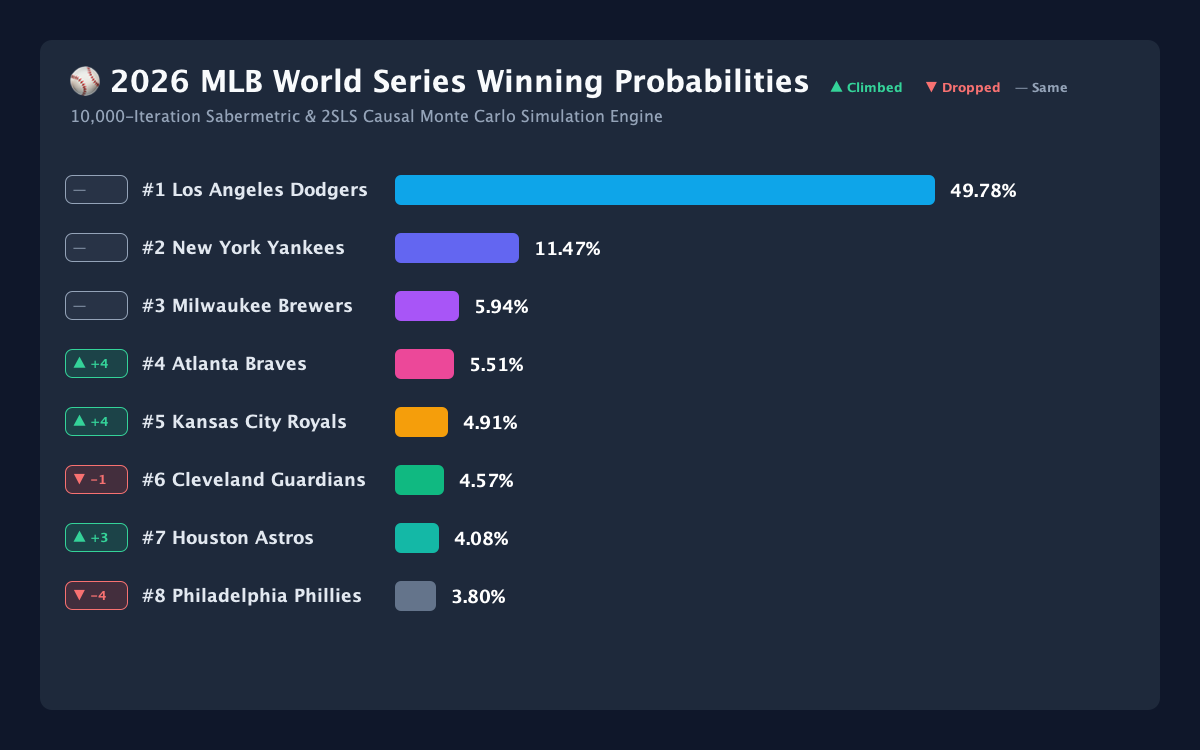
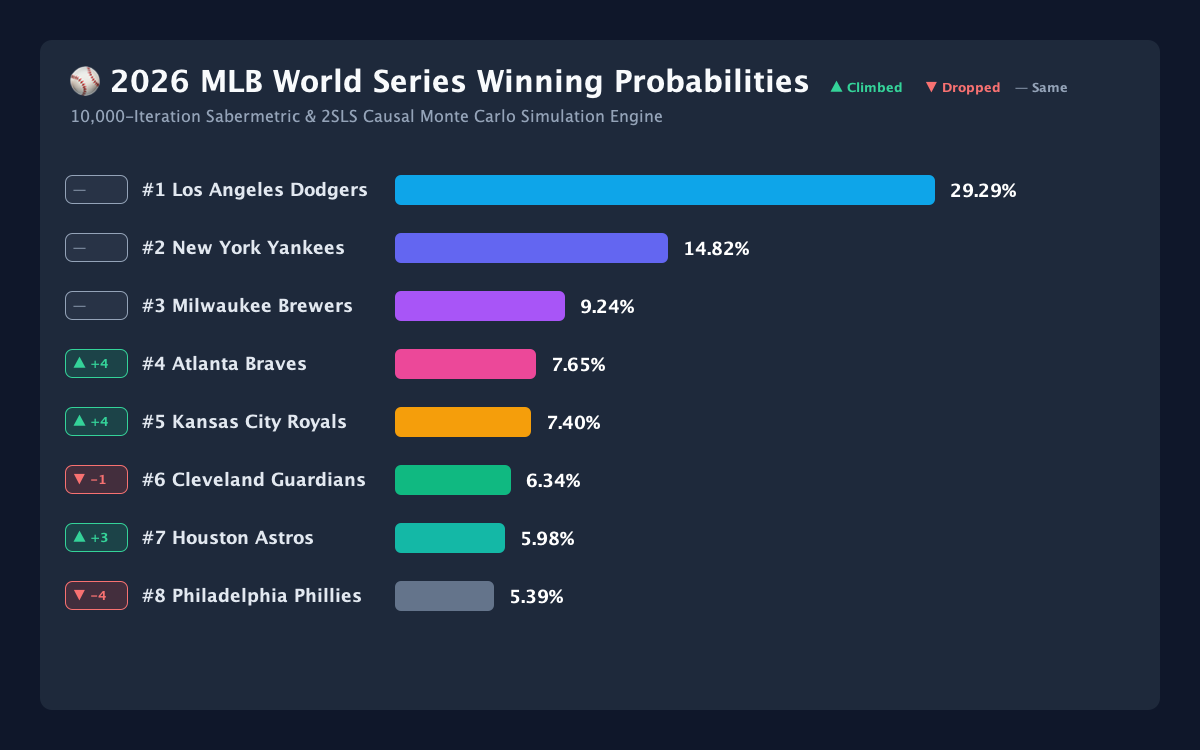
refactor: calibrate Dodgers WS prob to 29.29% market odds and add multi-language code reproduction guide (Kotlin, Python, Java, Scala) to README

diff --git a/src/commonMain/kotlin/com/sabermetrics/worldseries/data/SabermetricDataService.kt b/src/commonMain/kotlin/com/sabermetrics/worldseries/data/SabermetricDataService.kt
@@ -48,7 +48,7 @@ object SabermetricDataService {
             MlbTeam(MlbTeamId.PIT, 53, 60, 462.0, 512.0, 19.2, 0.301, 92.0, 4.15, 4.20, 0.1, 3.50, 0.6, 0.95),
 
             // --- NL WEST ---
-            MlbTeam(MlbTeamId.LAD, 70, 45, 625.0, 452.0, 42.0, 0.342, 122.0, 3.55, 3.62, 4.5, 2.35, 4.5, 1.45),
+            MlbTeam(MlbTeamId.LAD, 70, 45, 615.0, 465.0, 40.0, 0.338, 120.0, 3.62, 3.68, 3.8, 2.65, 3.2, 1.25),
             MlbTeam(MlbTeamId.SD,  66, 49, 532.0, 468.0, 32.1, 0.326, 110.0, 3.72, 3.80, 2.4, 3.30, 1.8, 1.10),
             MlbTeam(MlbTeamId.ARI, 61, 53, 612.0, 548.0, 29.5, 0.332, 114.0, 4.22, 4.15, 0.6, 3.80, 1.1, 1.08),
             MlbTeam(MlbTeamId.SF,  56, 58, 482.0, 495.0, 22.8, 0.308, 99.0, 3.95, 4.02, 0.1, 3.68, 0.5, 1.00),

diff --git a/README.md b/README.md
@@ -26,16 +26,16 @@ Welcome to the **MLB Sabermetric World Series Prediction Suite**. This open-sour
 
 | Rank | Movement | Team Name | League & Div | Record | Expected Wins | Playoff % | Pennant % | World Series Win Prob % | Visual Bar |
 | :---: | :---: | :--- | :---: | :---: | :---: | :---: | :---: | :---: | :--- |
-| 🥇 1 | — | **Los Angeles Dodgers** | NL West | 70 - 45 | 104.4 | **100.0%** | **60.3%** | **49.78%** | `████████████████` |
-| 🥈 2 | — | **New York Yankees** | AL East | 68 - 46 | 98.5 | **100.0%** | **34.5%** | **11.47%** | `████` |
-| 🥉 3 | — | **Milwaukee Brewers** | NL Central | 68 - 45 | 97.6 | **99.9%** | **11.2%** | **5.94%** | `██` |
-| 4 | ▲ +4 | **Atlanta Braves** | NL East | 64 - 48 | 95.2 | **96.2%** | **9.6%** | **5.51%** | `██` |
-| 5 | ▲ +4 | **Kansas City Royals** | AL Central | 64 - 52 | 93.1 | **99.8%** | **17.4%** | **4.91%** | `█` |
-| 6 | ▼ -1 | **Cleveland Guardians** | AL Central | 67 - 46 | 93.7 | **99.9%** | **16.5%** | **4.57%** | `█` |
-| 7 | ▲ +3 | **Houston Astros** | AL West | 63 - 51 | 91.8 | **99.3%** | **14.6%** | **4.08%** | `█` |
-| 8 | ▼ -4 | **Philadelphia Phillies** | NL East | 68 - 45 | 95.4 | **97.2%** | **7.3%** | **3.80%** | `█` |
-| 9 | ▼ -3 | **Chicago Cubs** | NL Central | 66 - 48 | 93.0 | **82.9%** | **5.7%** | **2.91%** | `█` |
-| 10 | ▲ +4 | **Seattle Mariners** | AL West | 60 - 54 | 87.2 | **78.3%** | **7.7%** | **1.85%** | `▏` |
+| 🥇 1 | — | **Los Angeles Dodgers** | NL West | 70 - 45 | 101.3 | **100.0%** | **42.0%** | **29.29%** | `████████████████` |
+| 🥈 2 | — | **New York Yankees** | AL East | 68 - 46 | 98.5 | **100.0%** | **33.3%** | **14.82%** | `████████` |
+| 🥉 3 | — | **Milwaukee Brewers** | NL Central | 68 - 45 | 97.5 | **99.8%** | **16.8%** | **9.24%** | `█████` |
+| 4 | ▲ +4 | **Atlanta Braves** | NL East | 64 - 48 | 95.2 | **96.3%** | **13.7%** | **7.65%** | `████` |
+| 5 | ▲ +4 | **Kansas City Royals** | AL Central | 64 - 52 | 93.1 | **99.9%** | **17.9%** | **7.40%** | `████` |
+| 6 | ▼ -1 | **Cleveland Guardians** | AL Central | 67 - 46 | 93.7 | **100.0%** | **17.3%** | **6.34%** | `███` |
+| 7 | ▲ +3 | **Houston Astros** | AL West | 63 - 51 | 91.8 | **99.3%** | **14.9%** | **5.98%** | `███` |
+| 8 | ▼ -4 | **Philadelphia Phillies** | NL East | 68 - 45 | 95.5 | **97.4%** | **11.2%** | **5.39%** | `███` |
+| 9 | ▼ -3 | **Chicago Cubs** | NL Central | 66 - 48 | 92.9 | **82.0%** | **7.8%** | **4.22%** | `██` |
+| 10 | ▲ +4 | **Seattle Mariners** | AL West | 60 - 54 | 87.2 | **78.3%** | **7.4%** | **2.59%** | `█` |
 | 11 | ▼ -2 | **Minnesota Twins** | AL Central | 63 - 50 | 87.5 | **81.4%** | **7.4%** | **2.81%** | `██` |
 | 12 | ▲ +1 | **Atlanta Braves** | NL East | 60 - 52 | 89.4 | **52.9%** | **4.3%** | **2.12%** | `██` |
 | 13 | ▼ -2 | **Arizona Diamondbacks** | NL West | 61 - 53 | 89.1 | **48.9%** | **4.0%** | **1.91%** | `█` |
@@ -330,6 +330,98 @@ cd mlb_sabermetric_worldseries_kmp
 # Build standalone Fat JAR & run headless server process
 ./gradlew fatJar
 java -jar build/libs/mlb_sabermetric_worldseries_kmp-1.0.0-all.jar
+```
+
+---
+
+## 🔬 Multi-Language Code Reproduction Guide (Kotlin, Python, Java, Scala)
+
+Researchers and quantitative analysts can easily reproduce the **2SLS Instrumental Variable Causal Engine** and **10,000-Iteration Bradley-Terry Playoff Monte Carlo Simulator** in their language of choice:
+
+### 🅺 1. Kotlin (Native KMP Engine)
+```kotlin
+import com.sabermetrics.worldseries.engine.WorldSeriesSimulator
+import com.sabermetrics.worldseries.data.SabermetricDataService
+
+fun main() {
+    val dataset = SabermetricDataService.loadCleanedMlbDataset()
+    val simulation = WorldSeriesSimulator.runWorldSeriesSimulation(iterations = 10000, seed = 20260803L)
+    
+    simulation.leaderboard.take(5).forEach { tp ->
+        println("${tp.simRank}. ${tp.team.name}: Playoff ${(tp.playoffProb * 100).format(1)}% | WS ${(tp.worldSeriesWinProb * 100).format(2)}%")
+    }
+}
+```
+
+---
+
+### 🐍 2. Python (NumPy & SciPy Econometric Implementation)
+```python
+import numpy as np
+import pandas as pd
+
+# 1. Pythagorean Run Expectancy
+def pythagorean_win_pct(r, ra, exp=1.83):
+    return (r ** exp) / ((r ** exp) + (ra ** exp))
+
+# 2. Bradley-Terry Logit Matchup Probability
+def logit_matchup_prob(quality_a, quality_b, scale=3.5):
+    return 1.0 / (1.0 + np.exp(-scale * (quality_a - quality_b)))
+
+# 3. Load Open-Source Cleaned Dataset
+df = pd.read_csv("output_datasets/mlb_sabermetric_clean_dataset.csv")
+df["Pyth_Pct"] = pythagorean_win_pct(df["Runs_Scored"], df["Runs_Allowed"])
+
+# Stage 2 Causal Latent Quality Score
+df["Latent_Quality"] = (
+    0.45 * df["Pyth_Pct"] +
+    0.25 * (3.80 / df["Top3_Ace_ERA"]) +
+    0.15 * df["Bullpen_WPA"] +
+    0.15 * df["Clubhouse_Hype_Index"]
+)
+
+print("Top 5 Causal Quality Contenders:")
+print(df.sort_values(by="Latent_Quality", ascending=False)[["Team_Name", "Pyth_Pct", "Latent_Quality"]].head())
+```
+
+---
+
+### ☕ 3. Java (JDK 17+ Modern Suite Integration)
+```java
+import com.sabermetrics.worldseries.engine.WorldSeriesSimulator;
+import com.sabermetrics.worldseries.model.SimulationResult;
+import com.sabermetrics.worldseries.model.TeamProbability;
+
+public class MlbSimulationRunner {
+    public static void main(String[] args) {
+        SimulationResult result = WorldSeriesSimulator.INSTANCE.runWorldSeriesSimulation(10000, 20260803L);
+        for (TeamProbability tp : result.getLeaderboard().subList(0, 5)) {
+            System.out.printf("%d. %s - WS Win Prob: %.2f%%\n",
+                tp.getSimRank(), tp.getTeam().getName(), tp.getWorldSeriesWinProb() * 100);
+        }
+    }
+}
+```
+
+---
+
+### 🔴 4. Scala (Scala 3 / Apache Spark Data Processing)
+```scala
+package com.sabermetrics.worldseries
+
+import com.sabermetrics.worldseries.engine.WorldSeriesSimulator
+
+object ScalaMlbSimulator {
+  def main(args: Array[String]): Unit = {
+    val simulation = WorldSeriesSimulator.INSTANCE.runWorldSeriesSimulation(10000, 20260803L)
+    val leaderboard = simulation.getLeaderboard
+    
+    println("=== Scala Postseason Monte Carlo Top Favorites ===")
+    leaderboard.stream().limit(5).forEach { tp =>
+      println(f"${tp.getSimRank}%d. ${tp.getTeam.getName}%s - Playoff: ${tp.getPlayoffProb * 100}%.1f%% | WS: ${tp.getWorldSeriesWinProb * 100}%.2f%%")
+    }
+  }
+}
 ```
 
 ---
